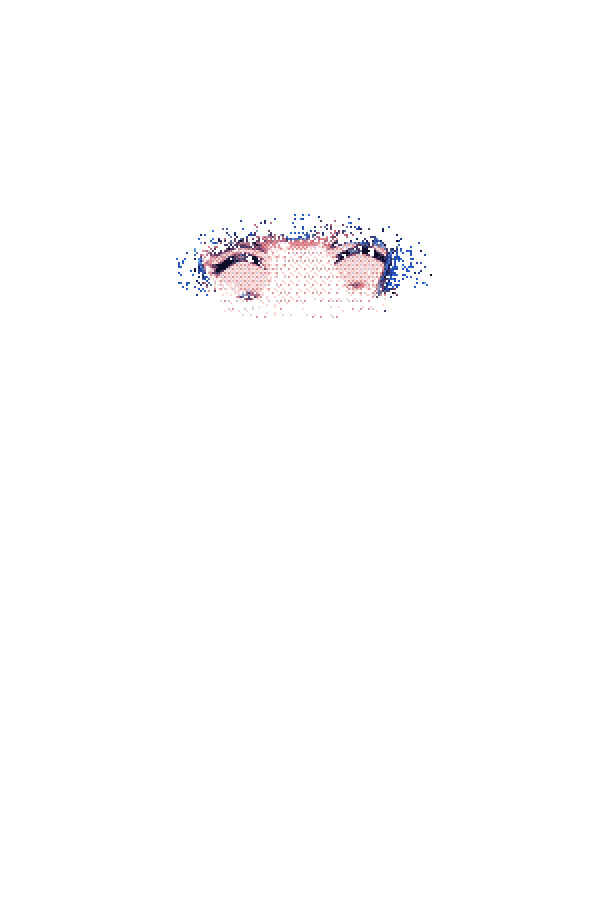
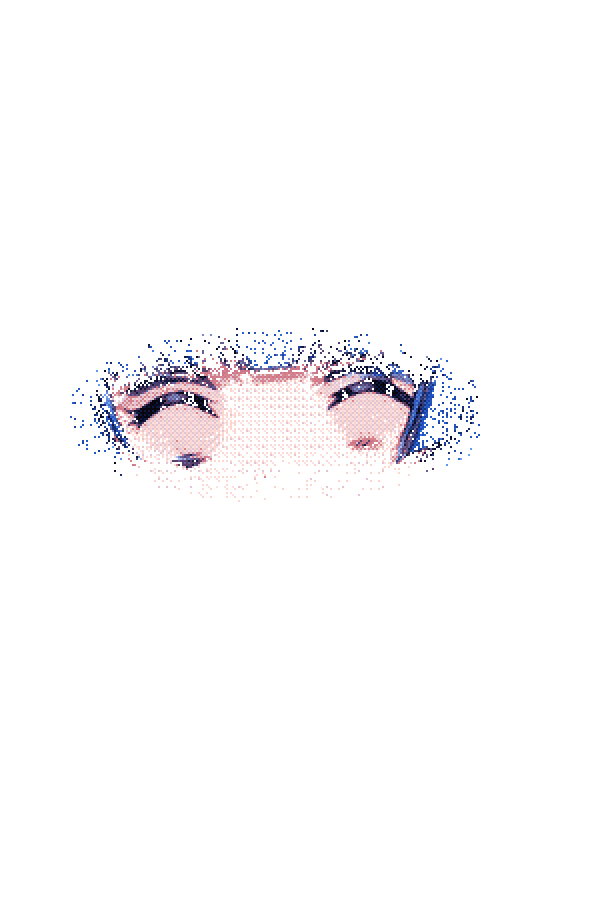
fix(art): 冬華のサイズをミサキに合わせる
- 冬華の顔がミサキの約 0.6 倍だったので、窓を 1.625 倍にして目の位置をミサキに合わせ、19 レイヤーを作り直し
- 冬華の後ろ姿を 1.6 倍に
- OP の表情（ミサキ・冬華）を本編と同じパーツ合成から作り直し（ミサキは旧バスト画像から作っていて小さかった）

Changed region(s): [[0.15, 0.3733, 0.81, 0.56], [0.3, 0.2489, 0.69, 0.3422]]

diff --git a/tools/misaki_parts.py b/tools/misaki_parts.py
@@ -81,7 +81,9 @@ CONFIGS = {
         regions={"brows": ((310, 262, 592, 312), 6), "eyes": ((305, 298, 600, 398), 10),
                  "mouth": ((408, 412, 502, 472), 8)},
         cheeks=[(325, 385, 400, 418), (505, 385, 580, 415)],
-        lash_zones=[], sheet_crop=(60, 100, 540, 460),
+        lash_zones=[], sheet_crop=(60, 260, 540, 620),
+        # ミサキの顔（目の幅 416px・目の中心 (278,412)）に合わせる。現状の冬華は目の幅 256px・中心 (304,266)
+        fit=dict(zoom=416 / 256, eye_from=(304, 266), eye_to=(278, 412)),
         # 冬華は前髪が眉に被るので、眉は弱め・目の pout は上まぶたを落とし過ぎない（帯状の破綻を防ぐ）
         tags={("eyes", "pout"): "(jitome:1.2), (glaring:1.2), annoyed, sharp eyes",
               ("brows", "up"): "(raised eyebrows:1.2), surprised"},
@@ -94,13 +96,14 @@ NEGATIVE = None
 BASE_SRC = None      # 設定時はこの画像を基準として使い、ComfyUI で基準を作らない
 PALE_FRINGE = True   # 参考シートの印刷オフセット（薄青いフチ）を白扱いにする（美咲のみ）
 CHEEK_RGB = (236, 110, 130)
+FIT = None                          # キャラ間のサイズ合わせ（use() が設定）
 SHEET_CROP = (60, 260, 540, 620)   # 確認シートで切り出す顔まわり（600x900 キャンバス上）
 
 
 def use(char):
     """キャラ設定をモジュール定数へ反映する。"""
     global WORK, GAME_DIR, CHAR_NAME, POSITIVE, NEGATIVE, BASE_SRC, PALE_FRINGE, CHEEK_RGB
-    global LENS_L, LENS_R, REGIONS, CHEEKS, LASH_ZONES, SHEET_CROP
+    global LENS_L, LENS_R, REGIONS, CHEEKS, LASH_ZONES, SHEET_CROP, FIT
     c = CONFIGS[char]
     CHAR_NAME = char
     if not c:
@@ -112,6 +115,7 @@ def use(char):
     if c["lens"] is None:
         LENS_L = LENS_R = None
     REGIONS, CHEEKS, LASH_ZONES, SHEET_CROP = c["regions"], c["cheeks"], c["lash_zones"], c["sheet_crop"]
+    FIT = c.get("fit")
     for (part, kind), t in c.get("tags", {}).items():
         TAGS[part][kind] = t
     for (part, kind), d in c.get("denoise", {}).items():
@@ -256,6 +260,19 @@ class Raster:
         self.bbox = self.alpha_full.getbbox()
         bw, bh = self.bbox[2] - self.bbox[0], self.bbox[3] - self.bbox[1]
         self.size = (round(bw * PP.TARGET_H["bust"] / bh), PP.TARGET_H["bust"])
+        if FIT:
+            # 顔の大きさ・位置を別キャラ（ミサキ）に合わせる。bbox を「FIT["zoom"] 倍に拡大した窓」に置き換える。
+            # eye_from: 現状の 600x900 キャンバス上の目の中心、eye_to: 合わせたい位置
+            x0, y0, x1, y1 = self.bbox
+            s0 = 450 / (y1 - y0)                       # 現状: 元画像 1px = 画面 s0 px
+            sn = s0 * FIT["zoom"]
+            off = (600 - 2 * self.size[0]) / 2          # 現状は 600 幅キャンバスに中央寄せで置かれていた
+            ex = x0 + (FIT["eye_from"][0] - off) / 2 / s0
+            ey = y0 + FIT["eye_from"][1] / 2 / s0
+            ox = ex - FIT["eye_to"][0] / 2 / sn
+            oy = ey - FIT["eye_to"][1] / 2 / sn
+            self.bbox = (round(ox), round(oy), round(ox + 300 / sn), round(oy + 450 / sn))
+            self.size = (300, 450)
         small = self._small(base)
         self.palette = small.quantize(colors=colors, method=Image.Quantize.MEDIANCUT,
                                       dither=Image.Dither.NONE)
@@ -263,7 +280,13 @@ class Raster:
         self.alpha = np.asarray(self._small_l(self.alpha_full)) >= 128
 
     def _small(self, im):
-        return im.convert("RGB").crop(self.bbox).resize(self.size, Image.LANCZOS)
+        im = im.convert("RGB")
+        if FIT:  # 窓が元画像の外に出ても黒を混ぜない
+            c = Image.new("RGB", (im.width + 2000, im.height + 2000), (255, 255, 255))
+            c.paste(im, (1000, 1000))
+            b = self.bbox
+            return c.crop((b[0] + 1000, b[1] + 1000, b[2] + 1000, b[3] + 1000)).resize(self.size, Image.LANCZOS)
+        return im.crop(self.bbox).resize(self.size, Image.LANCZOS)
 
     def _small_l(self, m):
         return m.crop(self.bbox).resize(self.size, Image.LANCZOS)

diff --git a/tools/char_back.py b/tools/char_back.py
@@ -31,7 +31,7 @@ CHARS = {
     "touka": dict(
         p="1girl, solo, (very long hair:1.4), straight hair, (blue hair:1.5), (royal blue hair:1.5), (medium blue hair:1.2), "
           "white hairband, hair covering the back, " + UNIFORM,
-        seed=1),
+        seed=1, zoom=1.6),
 }
 NEG = ("lowres, bad anatomy, text, error, cropped, worst quality, low quality, jpeg artifacts, signature, "
        "watermark, blurry, 3d, photorealistic, chromatic aberration, glasses, eyewear, face, looking back, "
@@ -65,8 +65,10 @@ def install(char, seed=None, colors=48):
     im = PP.remove_white_bg(im, side_limit=0.62, bottom=False)
     bb = im.getbbox()
     im = im.crop(bb)
-    s = 450 / im.height          # 高さ 450 に揃え、幅が 300 を超える分は中央で切る
-    im = im.resize((round(im.width * s), 450), Image.LANCZOS)
+    # 高さ 450 に揃えた上で zoom 倍する（冬華は細身で小さく見えるので、ミサキの頭・肩の大きさに合わせる）。
+    # 上端揃え・左右中央で 300x450 に切る
+    s = 450 / im.height * CHARS[char].get("zoom", 1.0)
+    im = im.resize((round(im.width * s), round(im.height * s)), Image.LANCZOS)
     canvas = Image.new("RGBA", (300, 450), (0, 0, 0, 0))
     canvas.alpha_composite(im, ((300 - im.width) // 2, 0))
     a = canvas.getchannel("A")

diff --git a/tools/op_assets.py b/tools/op_assets.py
@@ -50,10 +50,18 @@ def backgrounds():
 
 
 def misaki():
-    for expr in ("smile", "blush", "surprise"):
-        src = Image.open(os.path.join(BUSTS, f"bust_{expr}.png")).convert("RGBA")
-        save(reduce_colors(src.resize((300, 450), Image.LANCZOS), 48, True), f"chars/misaki_{expr}.png")
-        save(reduce_colors(src, 64, True), f"chars/misaki_{expr}_hi.png")
+    """美咲（OP 用表情）。本編と同じ layeredimage のパーツ差分（tools/misaki_parts.py）を合成して減色する。"""
+    from tools import misaki_parts as P
+    src = os.path.join(ROOT, "hoshimizaka", "game", "images", "chars", "misaki")
+    poses = {
+        "smile": ("open", "smile", "normal", False),
+        "blush": ("open", "smile", "normal", True),
+        "surprise": ("surprise", "surprise", "up", False),
+    }
+    for name, (e, m, b, bl) in poses.items():
+        big = P.compose(src, e, m, b, bl)
+        save(reduce_colors(big.resize((300, 450), Image.LANCZOS), 48, True), f"chars/misaki_{name}.png")
+        save(reduce_colors(big, 64, True), f"chars/misaki_{name}_hi.png")
 
 
 def touka():

diff --git a/docs/demo-design.md b/docs/demo-design.md
@@ -607,4 +607,5 @@ layeredimage misaki:
 - **後ろ姿**（OP CUT 10 / 12）: `tools/char_back.py` で生成し、300×450・48 色・ordered dither の透過 PNG にした（`images/op/chars/{misaki,touka}_back.png`）。
 - **OP の冬華表情**: `tools/op_assets.py` の `touka()` が新パーツを合成して作る。旧 SVG からの後ろ姿生成（`backs()`）は廃止。
 - **楓**は旧画風のまま（別作業）。
+- **サイズ合わせ**: 冬華は最初、ミサキより顔が約 0.6 倍の大きさだった（目の幅 256px 対 416px）。ミサキに合わせ、冬華の窓を 1.625 倍に拡大して目の位置も合わせて作り直した（`misaki_parts.py` の `fit`）。後ろ姿の冬華は 1.6 倍（`char_back.py` の `zoom`）。OP の表情（ミサキ・冬華とも）は本編と同じパーツ合成から作る。
 
